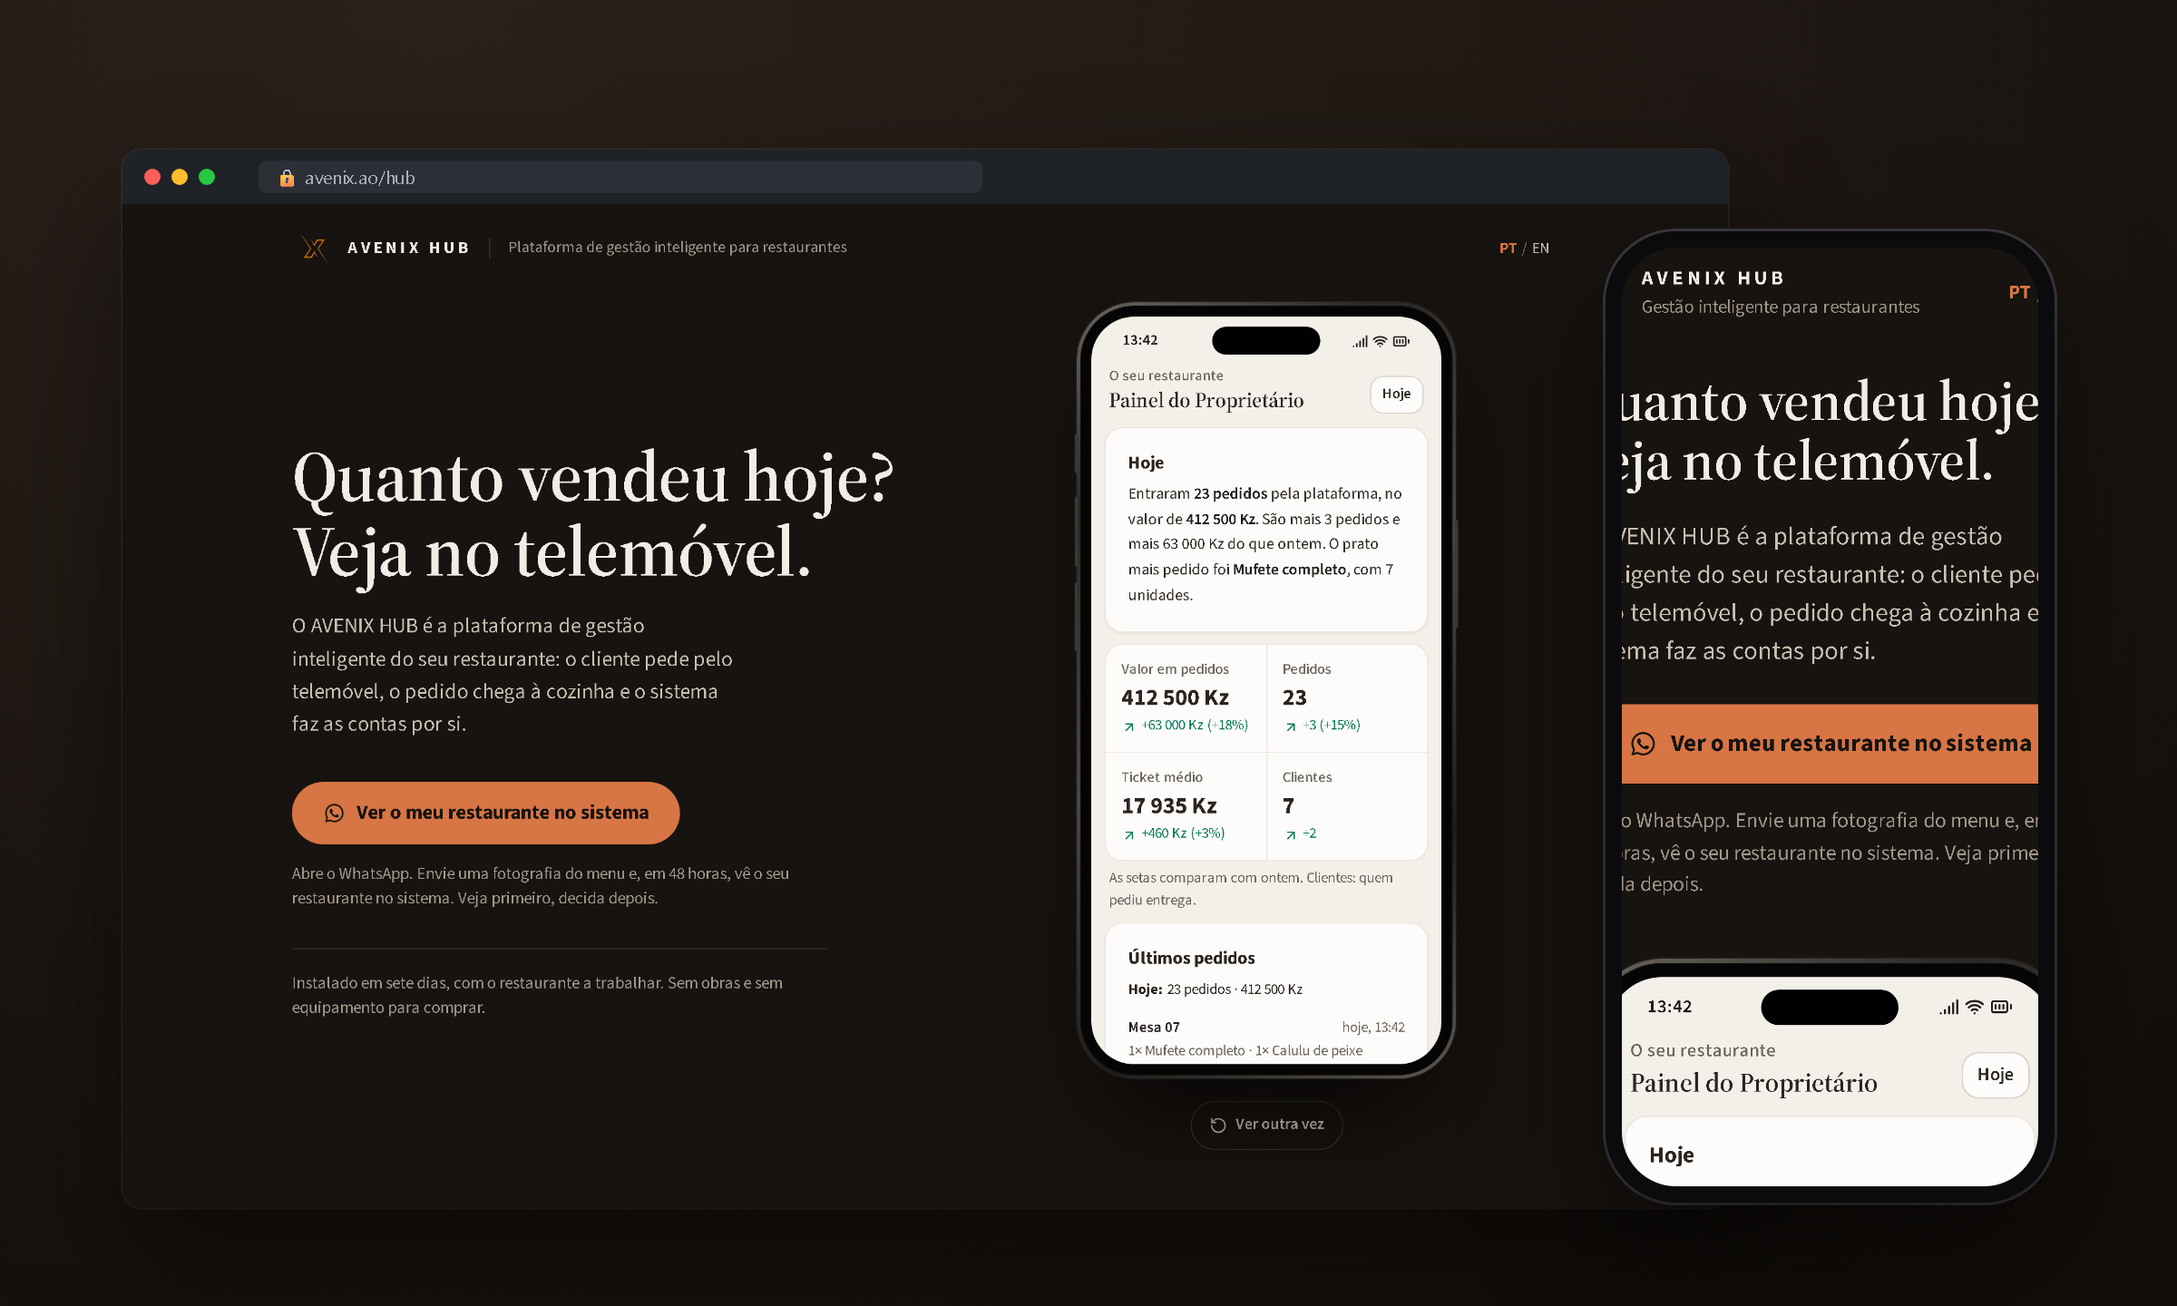
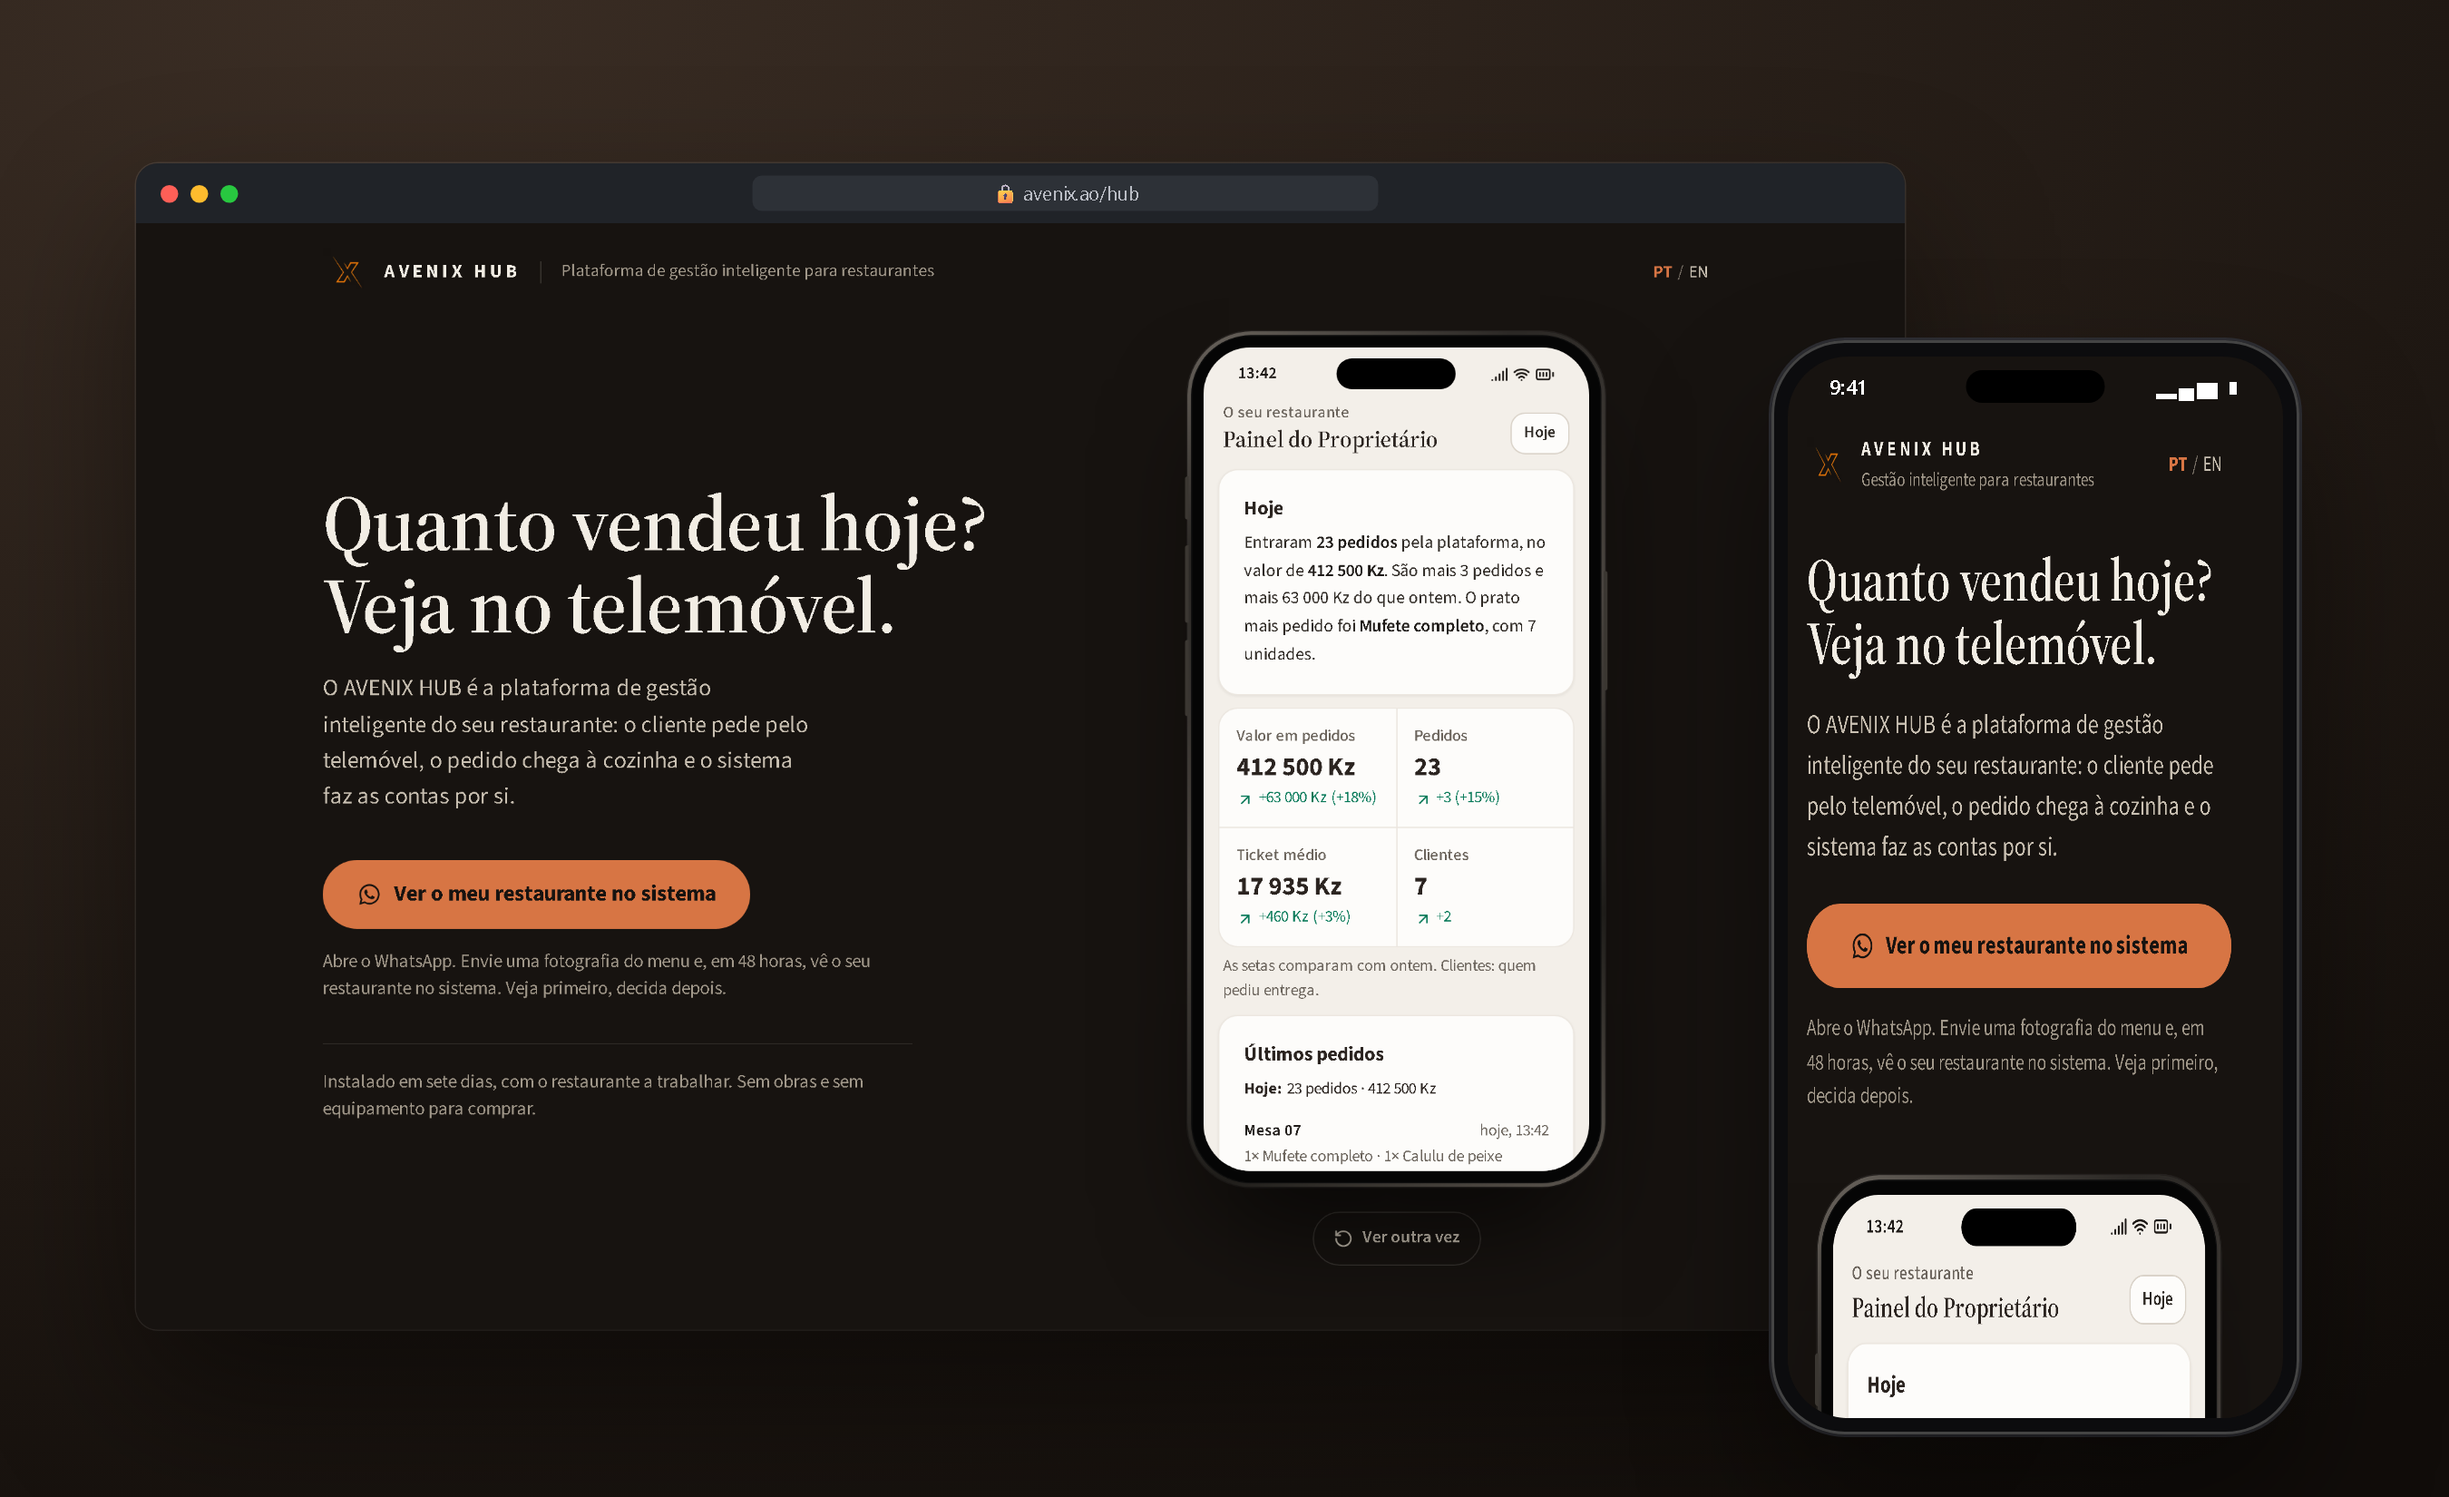
Professional screenshots: device mockups, three mobile screens, desktop

diff --git a/README.md b/README.md
@@ -15,13 +15,15 @@ Bilingual product landing page for a restaurant management platform, built for a
 - **Animated product demo:** a phone that plays the owner dashboard live, with new orders, daily sales and average ticket.
 - **Bilingual:** Portuguese and English with a one-tap switch.
 - **Conversion focused:** one WhatsApp call to action for lead capture.
-- **Responsive:** designed for mobile first, scales to desktop.
+- **Mobile first:** designed for phones, scales to desktop.
 
-## Screenshots
+## Mobile
 
-| Desktop | Mobile |
-|---|---|
-| <img src="screenshots/desktop.png" width="520"> | <img src="screenshots/mobile.png" width="200"> |
+<img src="screenshots/mobile.png" alt="AVENIX HUB · Product Landing Page mobile screens" width="100%">
+
+## Desktop
+
+<img src="screenshots/desktop.png" alt="AVENIX HUB · Product Landing Page desktop" width="100%">
 
 ## Stack
 
@@ -37,4 +39,8 @@ The source code is private because it belongs to the client. I am happy to walk 
 
 ---
 
-Built by **[Erick Rodrigues](https://github.com/Erickrodrigues05)**, Full-Stack Developer · erickrodrigues781@gmail.com
+<div align="center">
+
+Built by **[Erick Rodrigues](https://github.com/Erickrodrigues05)**, Full-Stack Developer · [erickrodrigues781@gmail.com](mailto:erickrodrigues781@gmail.com)
+
+</div>
